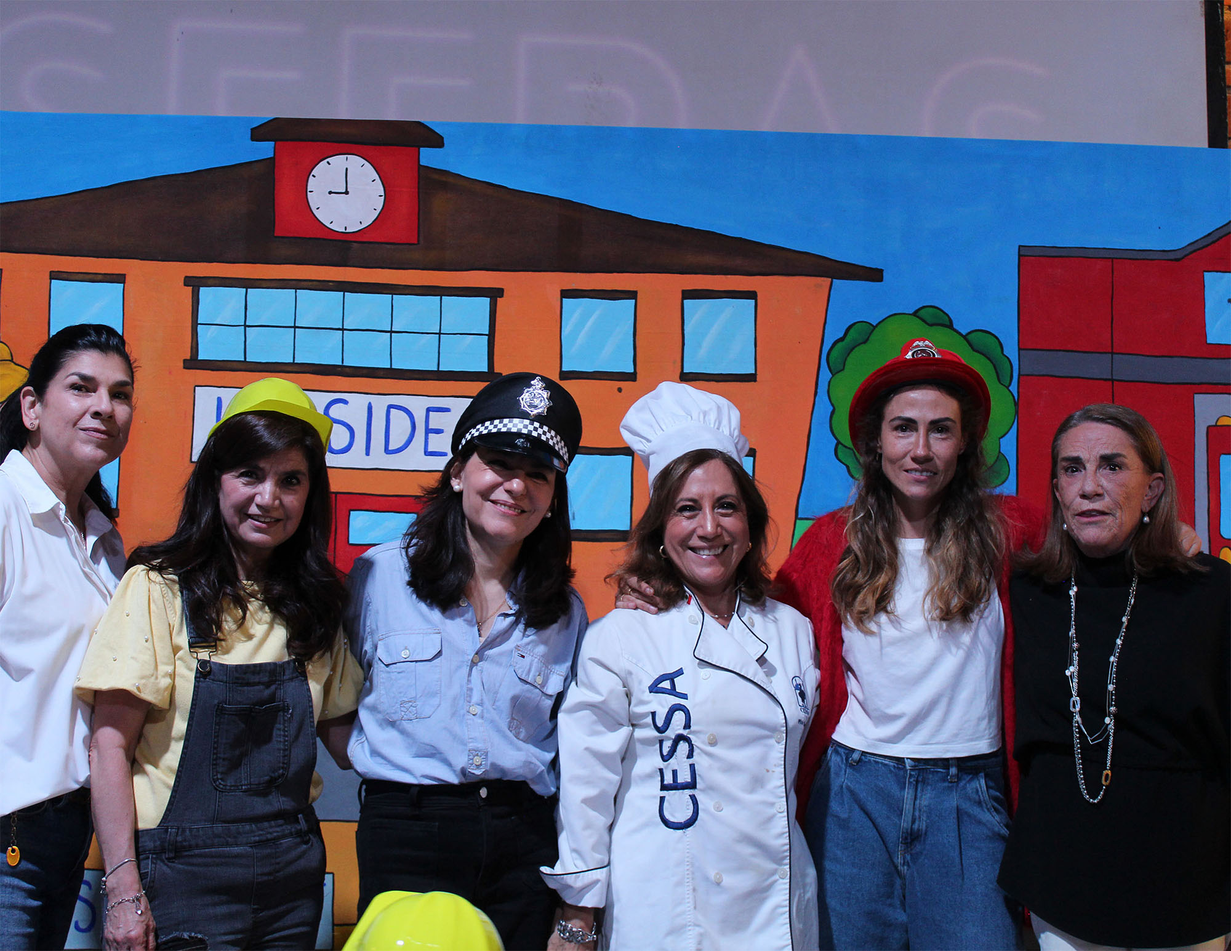
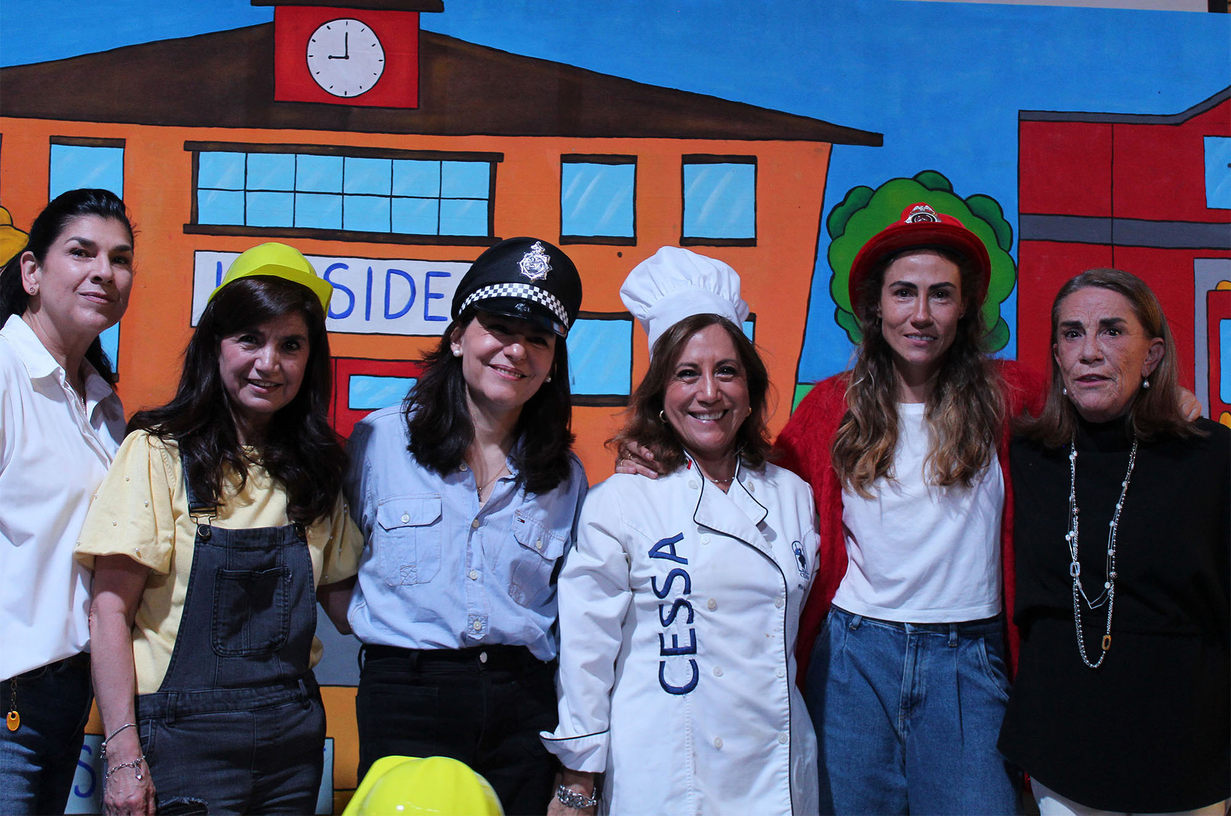
Changed nosotros images

diff --git a/src/components/nosotros.jsx b/src/components/nosotros.jsx
@@ -1,10 +1,10 @@
 import React from 'react';
 import { Link } from 'react-router-dom';
 import NosotrosTitle from '../assets/images/titles/NOSOTROS.svg';
-import girl from '../assets/images/photos/smile.jpeg';
-import star from '../assets/images/bg-icons/estrella_full.svg';
-import halloween from '../assets/images/photos/halloween.png';
 import personal from '../assets/images/titles/NUESTRO-PERSONAL.svg';
+import star from '../assets/images/bg-icons/estrella_full.svg';
+import girl from '../assets/images/photos/smile.jpeg';
+import teachers from '../assets/images/photos/personal.jpg';
 
 function Nosotros() {
   return (
@@ -127,7 +127,7 @@ function Nosotros() {
           </div>
           <div className='nuestro-personal-img'>
             <img
-              src={halloween}
+              src={teachers}
               alt='Halloween'
               className='nuestro-personal-title-image'
             />

diff --git a/src/components/footer.jsx b/src/components/footer.jsx
@@ -40,10 +40,10 @@ function Footer() {
             </li>
           </ul>
           <div className="info3">
-            <a href="#">
+            <a href="https://www.instagram.com/hillside.mx/" target='_blank'>
               <img className='footer-icon' src={instagram} alt="Instagram" />
             </a>
-            <a href="#">
+            <a href="https://www.facebook.com/profile.php?id=100063610312323" target='_blank'>
               <img className='footer-icon' src={facebook} alt="Facebook" />
             </a>
           </div>

diff --git a/src/components/navbar.jsx b/src/components/navbar.jsx
@@ -23,9 +23,9 @@ function Navbar() {
         <NavLink className='nav-link' to='niveles'>
           Niveles
         </NavLink>
-        <NavLink className='nav-link' to='personal'>
+        <HashLink className='nav-link' to='nosotros#personal' >
           Personal
-        </NavLink>
+        </HashLink>
         <NavLink className='nav-link' to='contacto'>
           Contacto
         </NavLink>

diff --git a/src/App.css b/src/App.css
@@ -717,7 +717,7 @@
 }
 
 .mision-vision-img-right {
-  background-image: url(./assets/images/photos/garden-flowers.jpg);
+  background-image: url(./assets/images/photos/vision.jpg);
 }
 
 
@@ -793,7 +793,7 @@
   bottom: 0;
   right: 0;
   left: 0;
-  top: 40%;
+  top: 50%;
 }
 
 .nuestro-personal-img-container {
